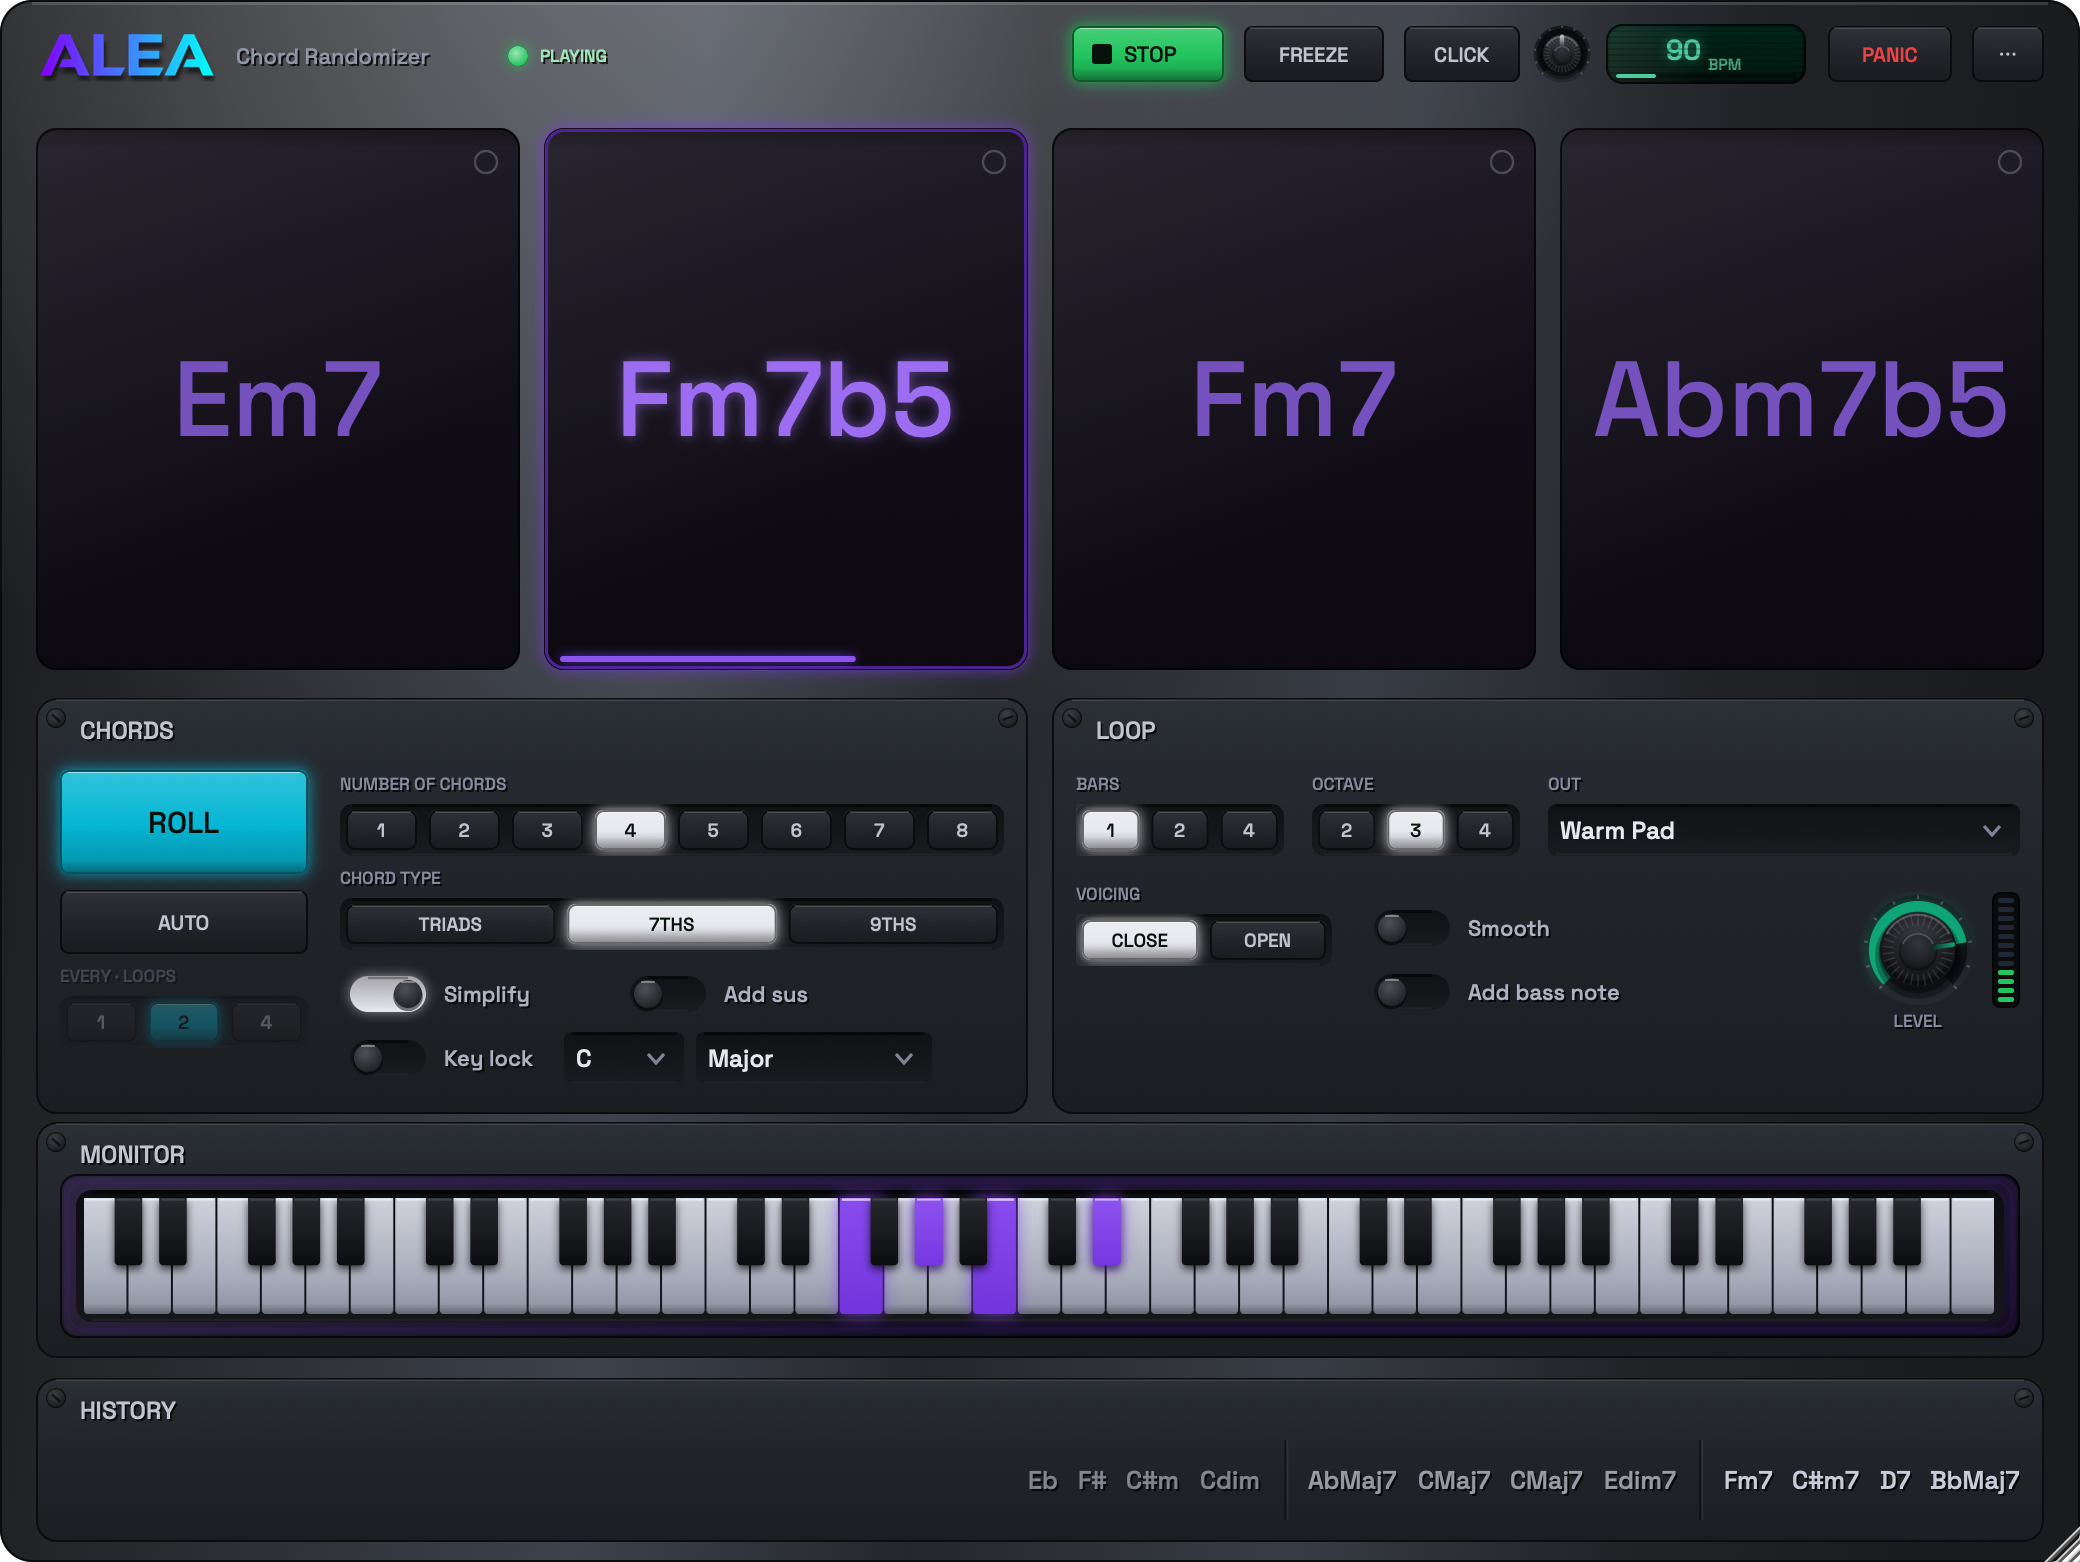
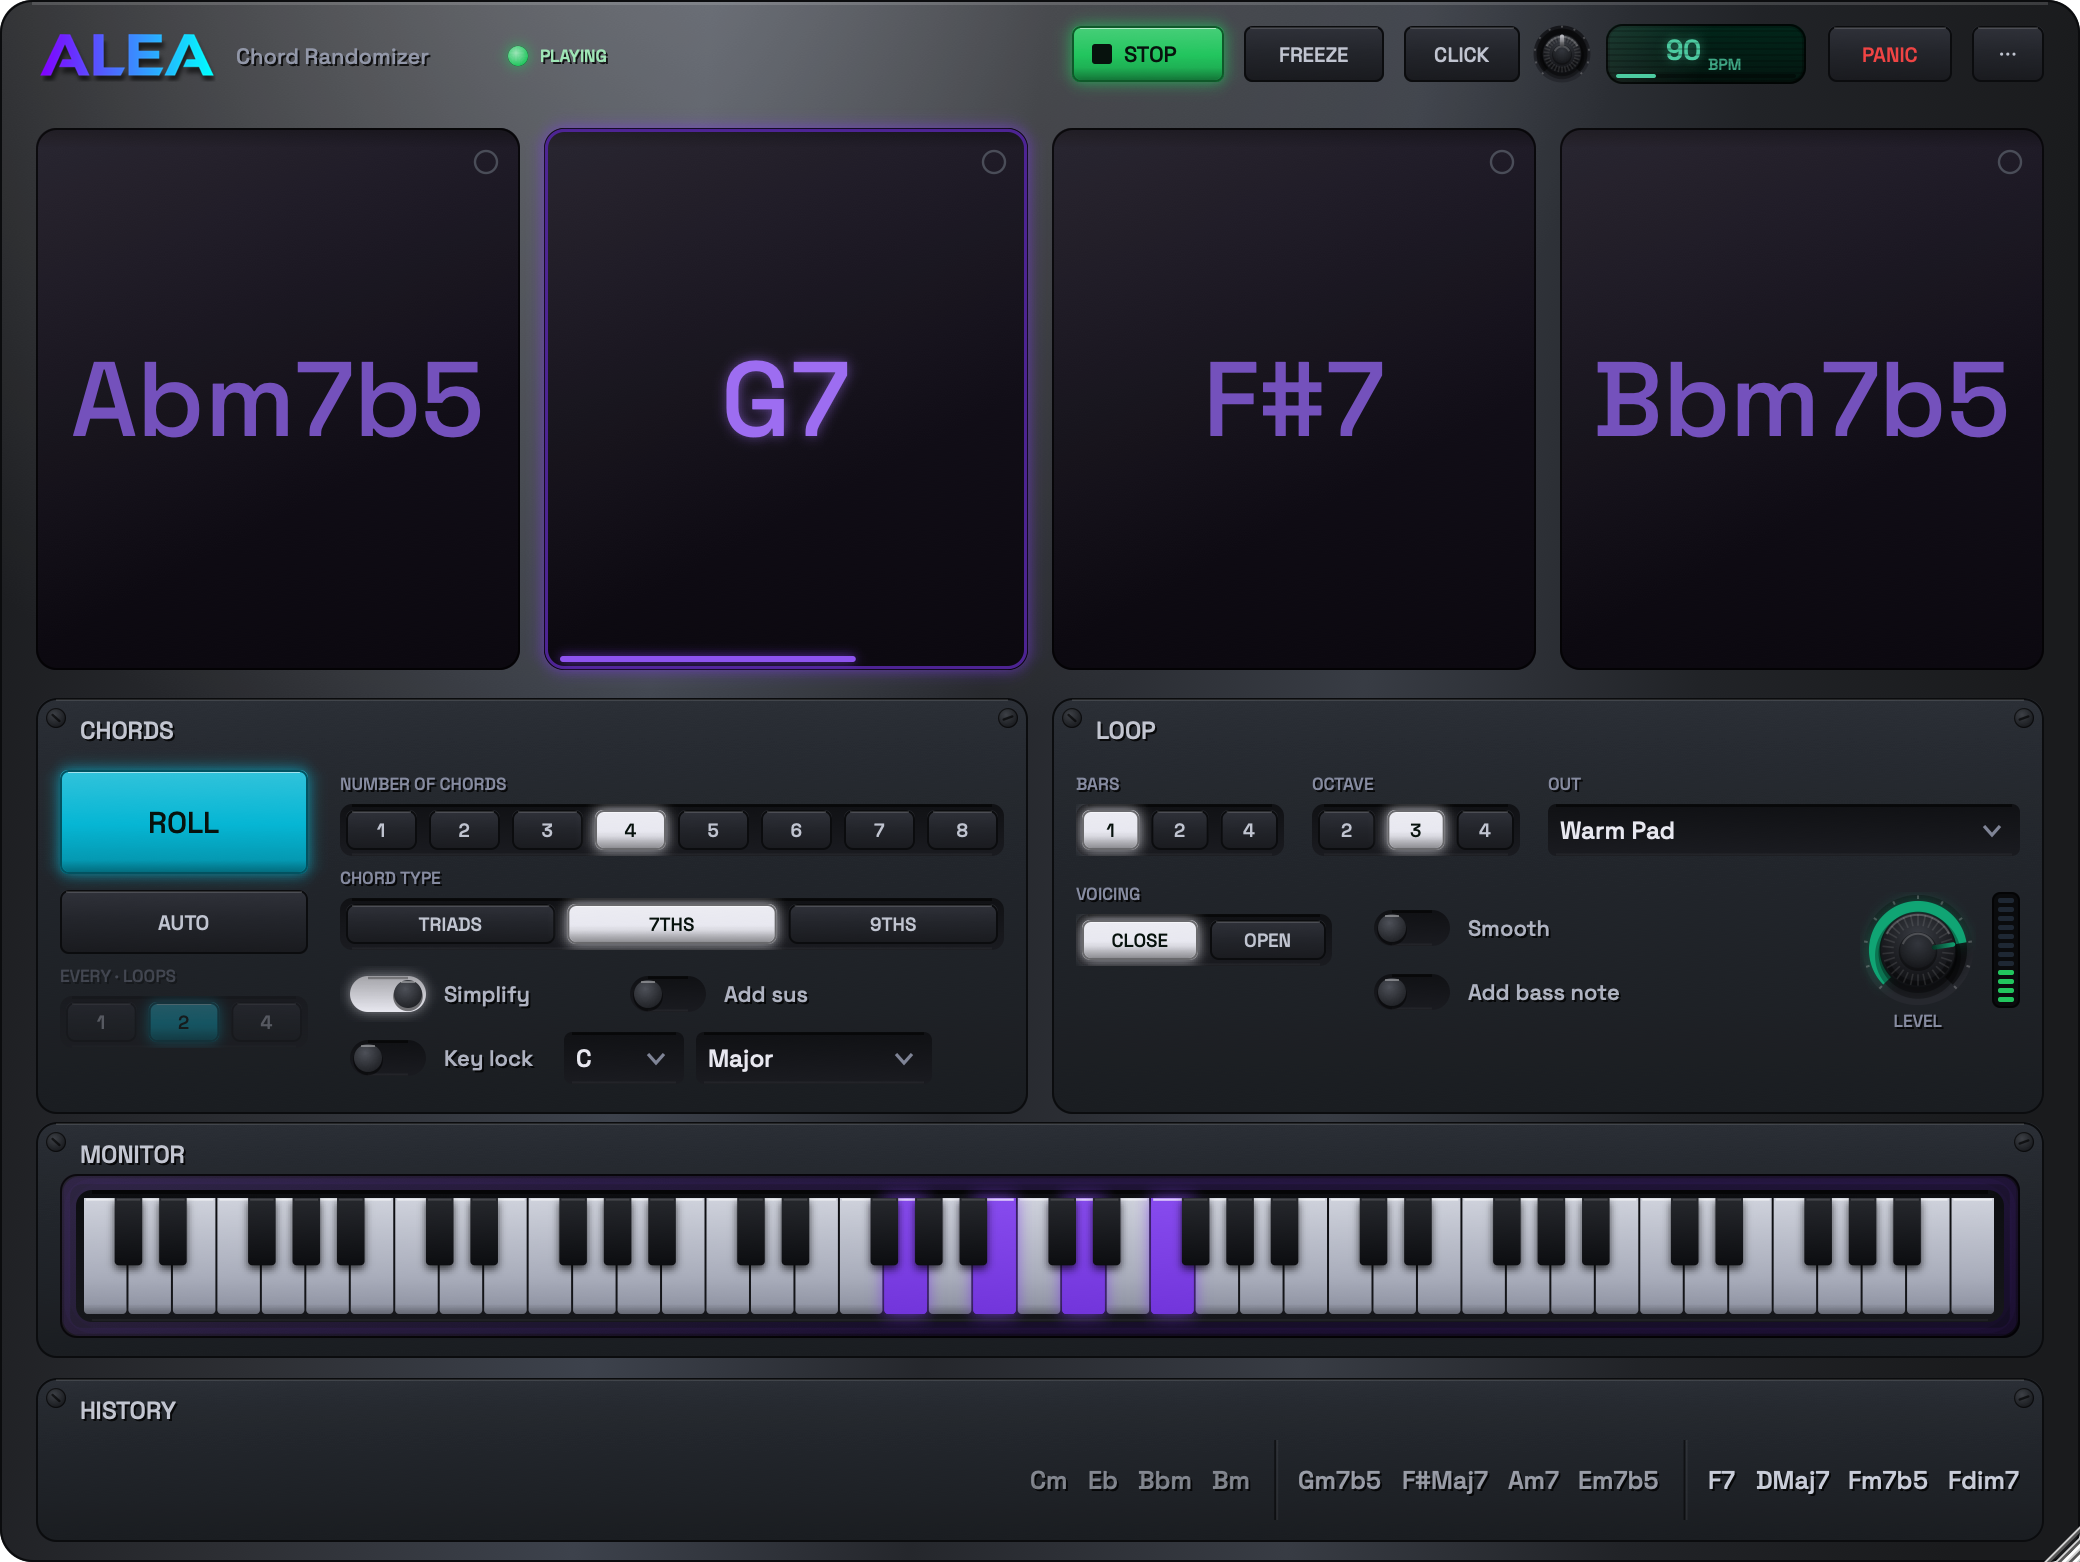
QA round 10: timing/morph naming, header order, unified key press
- The knobs say what they set: NOTE RATE / NOTE LENGTH (were DIVISION);
  the stacked Sync/Free/Random selectors are captioned RATE MODE /
  LENGTH MODE; the morph knob is SWEEP DURATION (per updated design).
- Header per updated design: wordmark - subtitle - LED + PLAYING word
  (the LED used to sit before the subtitle); the word is the family's
  engraved green caps. LED slides left when the subtitle hides.
- Played keys, final form: white and black alike SLIDE 3px down into
  the bed - both front-tilt attempts read as pressed toward the player,
  the plain drop reads right.

diff --git a/Source/PluginEditor.cpp b/Source/PluginEditor.cpp
@@ -845,20 +845,25 @@ void AleaAudioProcessorEditor::paintMain (juce::Graphics& g)
     // Header disclosure is purely additive as the window widens - nothing ever
     // appears, disappears, then reappears. The status LED sits right after the
     // logo and is ALWAYS shown; the subtitle adds next, then the status word.
+    // Updated design order: wordmark - subtitle - LED + PLAYING word. The LED
+    // is always shown; it slides left when the subtitle hides on narrow windows.
     const bool playing = alea.hostIsPlaying.load();
     const int fx = freezeButton.getX();
-    ui::hw::ledDot (g, { 124.0f, 28.0f }, playing ? 1.0f : 0.0f, colors::playing, 12.0f); // 1) LED - always
-    if (fx >= 300)                               // 2) + subtitle
+    const bool subtitleShown = fx >= 300;
+    if (subtitleShown)
     {
         g.setColour (colors::secondary);
         g.setFont (juce::FontOptions (14.0f));
-        g.drawText ("Aleatoric Scale Shifter", 140, 16, 158, 28, juce::Justification::centredLeft);
+        g.drawText ("Aleatoric Scale Shifter", 118, 16, 168, 28, juce::Justification::centredLeft);
     }
-    if (fx >= 378)                               // 3) + status word
+    const float ledX = subtitleShown ? 302.0f : 124.0f;
+    ui::hw::ledDot (g, { ledX, 30.0f }, playing ? 1.0f : 0.0f, colors::playing, 10.0f);
+    if (fx >= 378)
     {
-        g.setColour (colors::secondary);
-        g.setFont (juce::FontOptions (14.0f));
-        g.drawText (playing ? "playing" : "stopped", 302, 14, 74, 28, juce::Justification::centredLeft);
+        g.setFont (juce::Font (juce::FontOptions (11.0f)).boldened());
+        ui::hw::engraved (g, playing ? "PLAYING" : "STOPPED",
+                          { (int) ledX + 11, 16, 90, 28 }, juce::Justification::centredLeft,
+                          playing ? juce::Colour (0xff9fe6b6) : juce::Colour (0xff7f8496));
     }
 
     // (The tempo bar reads "120 BPM" itself; the word "TEMPO" was dropped in
@@ -928,8 +933,8 @@ void AleaAudioProcessorEditor::paintMain (juce::Graphics& g)
     g.setColour (colors::secondary);
 
     g.setFont (juce::Font (juce::FontOptions (11.0f)).boldened()); // sub-labels: smaller than the panel title
-    g.drawText ("NOTE RATE",   timingPanel.getX() + 12, timingPanel.getY() + 40,  120, 14, juce::Justification::centredLeft);
-    g.drawText ("NOTE LENGTH", timingPanel.getX() + 12, timingPanel.getY() + 172, 120, 14, juce::Justification::centredLeft);
+    g.drawText ("RATE MODE",   timingPanel.getX() + 12, timingPanel.getY() + 40,  120, 14, juce::Justification::centredLeft);
+    g.drawText ("LENGTH MODE", timingPanel.getX() + 12, timingPanel.getY() + 172, 120, 14, juce::Justification::centredLeft);
 
     // Under each knob: a caption then the value ("DIVISION" / "1/4 note"),
     // centred on the knob. Random mode shows the last dice roll instead.
@@ -958,7 +963,7 @@ void AleaAudioProcessorEditor::paintMain (juce::Graphics& g)
         }
         g.setColour (colors::secondary);
         g.setFont (juce::Font (juce::FontOptions (11.0f)).boldened());
-        g.drawText (mode == params::sync ? "DIVISION" : freeCaption, cx - 60, below + 2, 120, 14, juce::Justification::centred);
+        g.drawText (freeCaption, cx - 60, below + 2, 120, 14, juce::Justification::centred);
         // Sync value is painted here; the free value is an editable field.
         if (mode == params::sync)
         {
@@ -970,8 +975,8 @@ void AleaAudioProcessorEditor::paintMain (juce::Graphics& g)
     };
     const int iMode = (int) alea.apvts.getRawParameterValue ("intervalMode")->load();
     const int lMode = (int) alea.apvts.getRawParameterValue ("lengthMode")->load();
-    timingKnobLabel (intervalSync, intervalFree, iMode, "RATE",   alea.lastRandomInterval.load());
-    timingKnobLabel (lengthSync,   lengthFree,   lMode, "LENGTH", alea.lastRandomLength.load());
+    timingKnobLabel (intervalSync, intervalFree, iMode, "NOTE RATE",   alea.lastRandomInterval.load());
+    timingKnobLabel (lengthSync,   lengthFree,   lMode, "NOTE LENGTH", alea.lastRandomLength.load());
     // DURATION knob caption + value (the visible knob: bars in Sync, seconds
     // in Free), painted below it.
     {
@@ -980,7 +985,7 @@ void AleaAudioProcessorEditor::paintMain (juce::Graphics& g)
         const auto kb = durK.getBounds();
         g.setColour (colors::secondary);
         g.setFont (juce::Font (juce::FontOptions (11.0f)).boldened());
-        g.drawText ("DURATION", kb.getX() - 24, kb.getBottom() - 2, kb.getWidth() + 48, 13, juce::Justification::centred);
+        g.drawText ("SWEEP DURATION", kb.getX() - 40, kb.getBottom() - 2, kb.getWidth() + 80, 13, juce::Justification::centred);
         // Sync (bars) value painted here; the free (seconds) value is a field.
         if (sync)
         {

diff --git a/Source/UI.cpp b/Source/UI.cpp
@@ -166,16 +166,11 @@ void PianoKeyboard::paint (juce::Graphics& g)
 
     auto whiteKeyRect = [&] (int slot) { return whiteKeyBounds (slot).reduced (1.0f); };
 
-    // The sounding key physically DEPRESSES: its front (bottom) edge tilts
-    // away, so the face FORESHORTENS from the bottom and the key's dark front
-    // side becomes visible beneath it. (Translating the key down + a top
-    // shadow looked like it was pressed from the other side - QA round 8.)
-    auto pressedRect = [] (juce::Rectangle<float> k, bool pressed, bool isWhite)
-    {
-        if (! pressed) return k;
-        return isWhite ? k.withTrimmedBottom (3.5f)   // front edge tilts away
-                       : k.translated (0.0f, 3.0f);   // the raised key drops
-    };
+    // The sounding key physically DEPRESSES: the whole key slides 3px down
+    // into the bed - white and black alike. (Two attempts at a front-edge
+    // tilt both read as pressed toward the player - QA rounds 8-10.)
+    auto pressedRect = [] (juce::Rectangle<float> k, bool pressed, bool)
+    { return pressed ? k.translated (0.0f, 3.0f) : k; };
 
     auto velocityFill = [&g, velNorm] (juce::Rectangle<float> key, float radius)
     {
@@ -203,17 +198,6 @@ void PianoKeyboard::paint (juce::Graphics& g)
         const auto k = pressedRect (key, pressed, isWhite);
         const auto path = keyPath (k, radius);
         const float dim = pressed ? 0.90f : 1.0f;
-        if (pressed && isWhite)
-        {
-            // The key's front side, caught in shadow under the tilted face.
-            juce::Path front;
-            front.addRoundedRectangle (key.getX(), k.getBottom() - radius, key.getWidth(),
-                                       (key.getBottom() - k.getBottom()) + radius,
-                                       radius, radius, false, false, true, true);
-            g.setColour ((isSel ? accent.interpolatedWith (juce::Colours::black, 0.65f)
-                                : juce::Colour (0xff0a0b0e)).withAlpha (0.95f));
-            g.fillPath (front);
-        }
 
         if (isSel)
         {